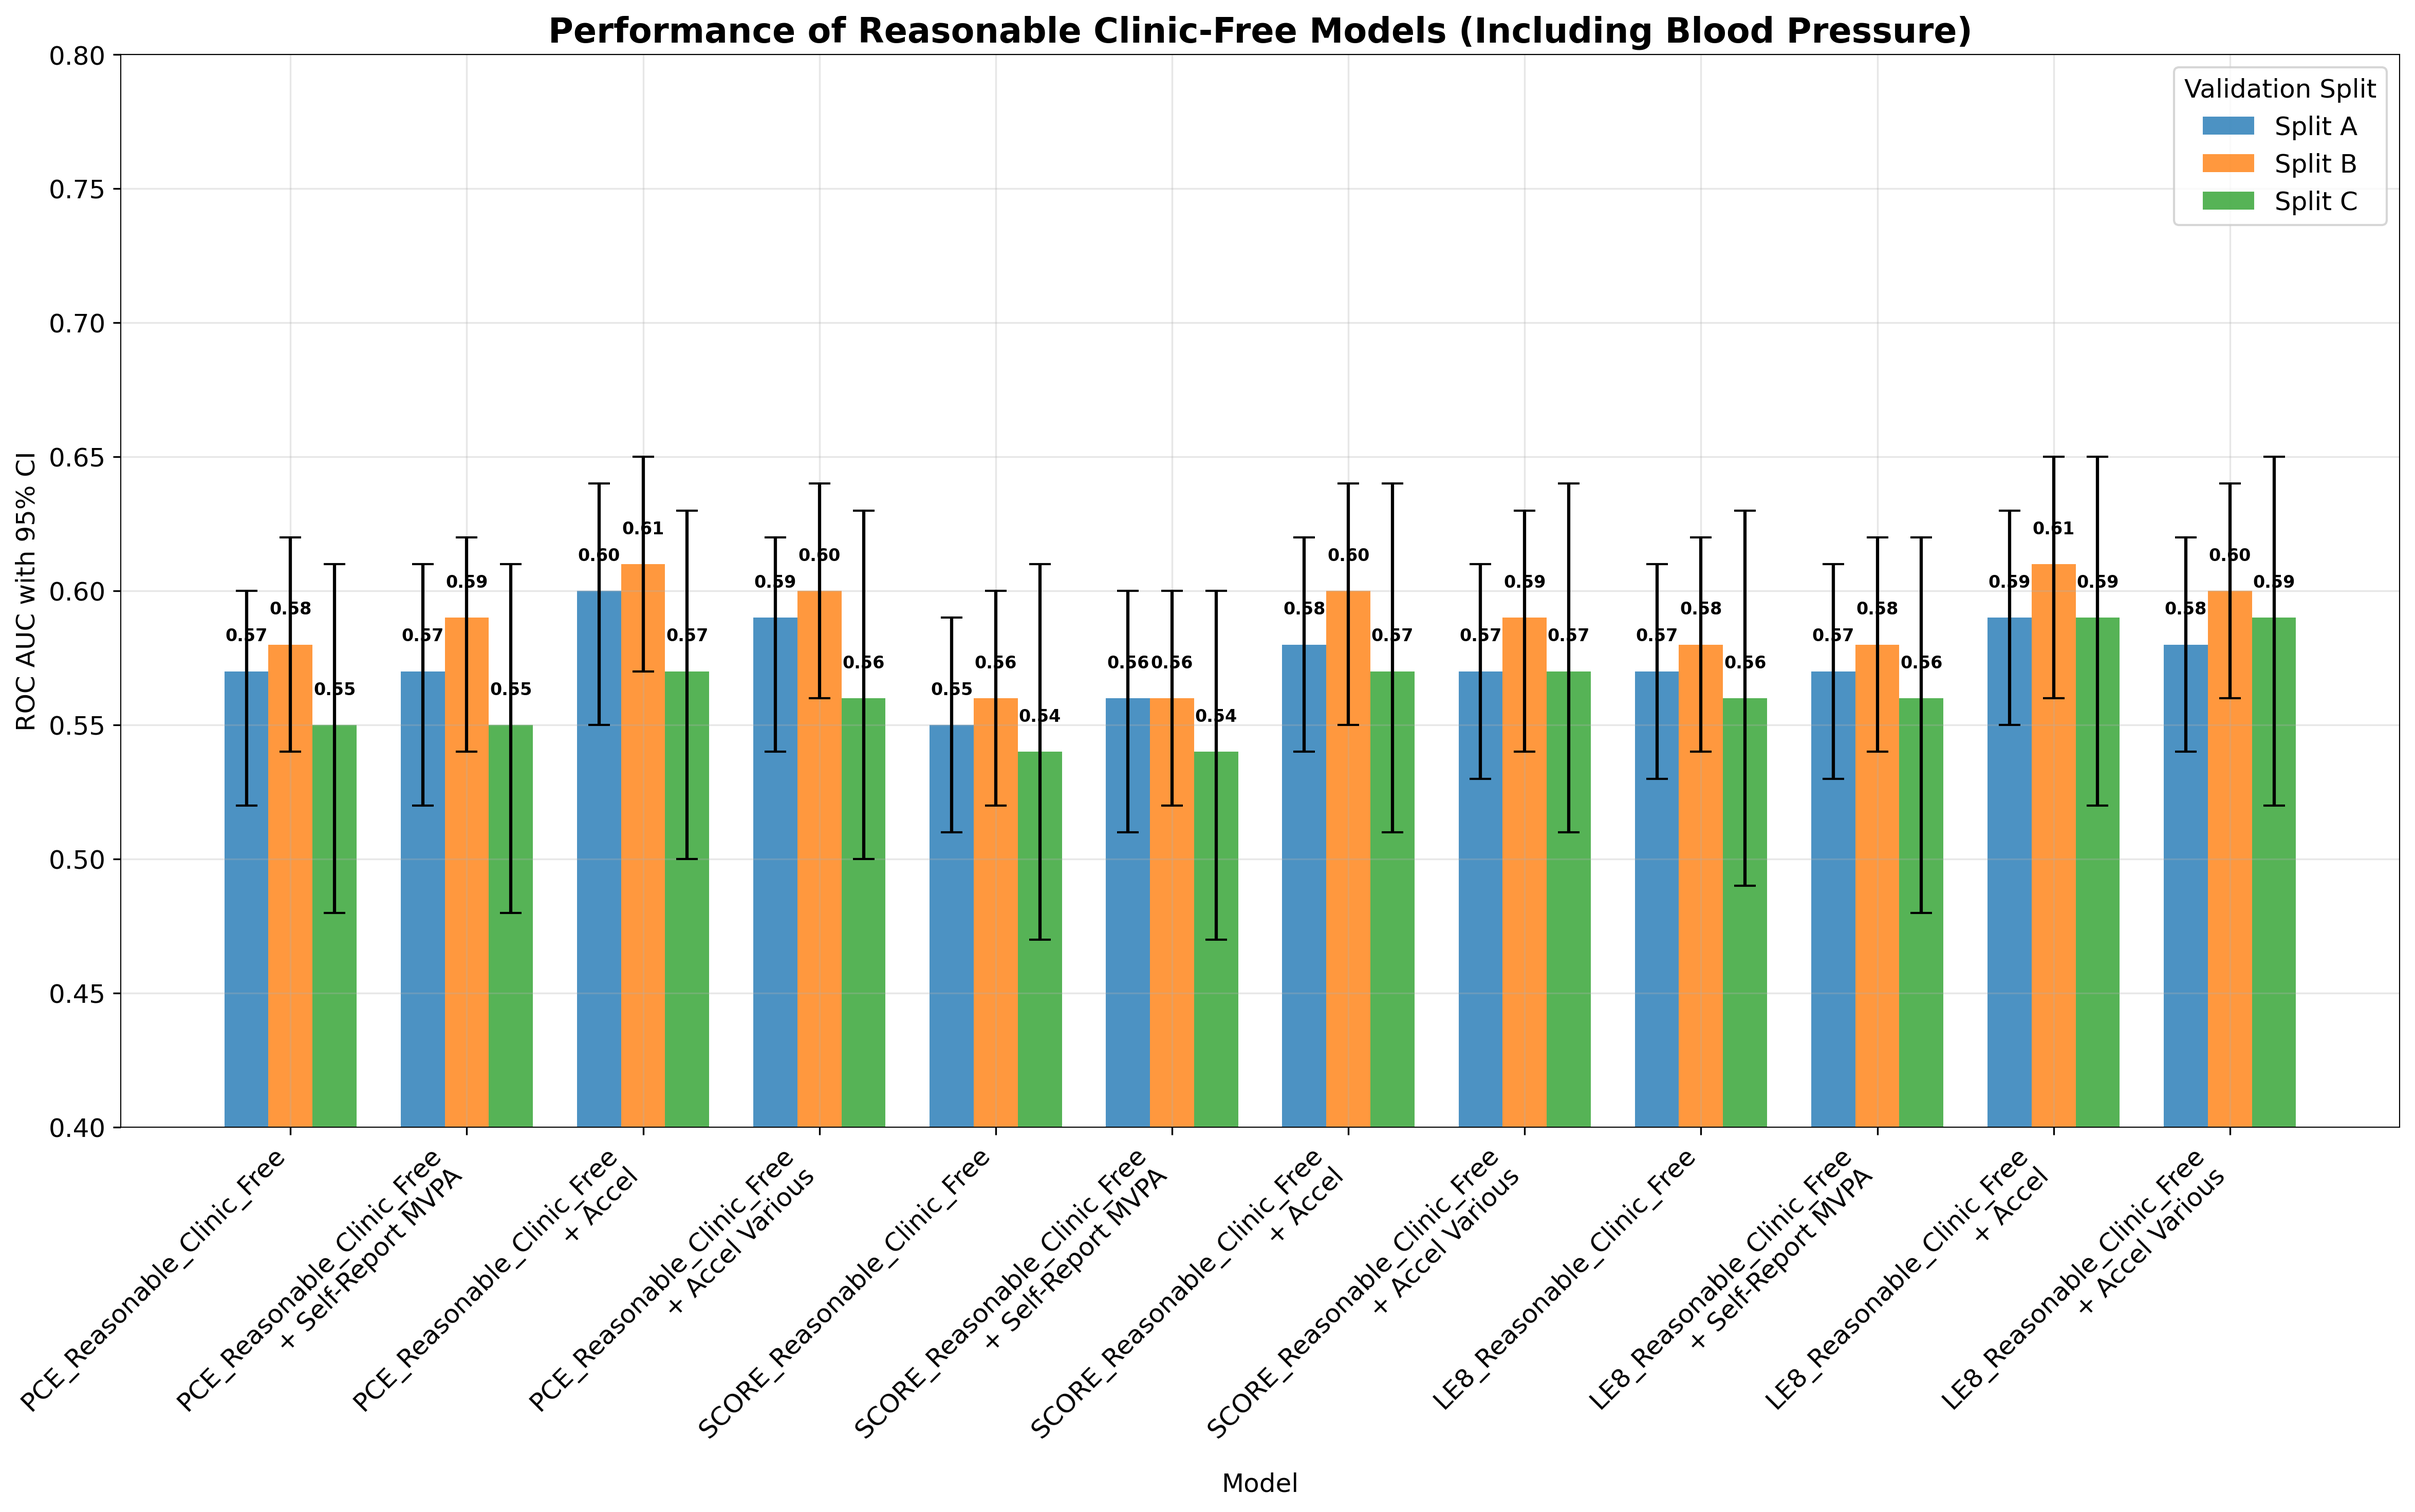
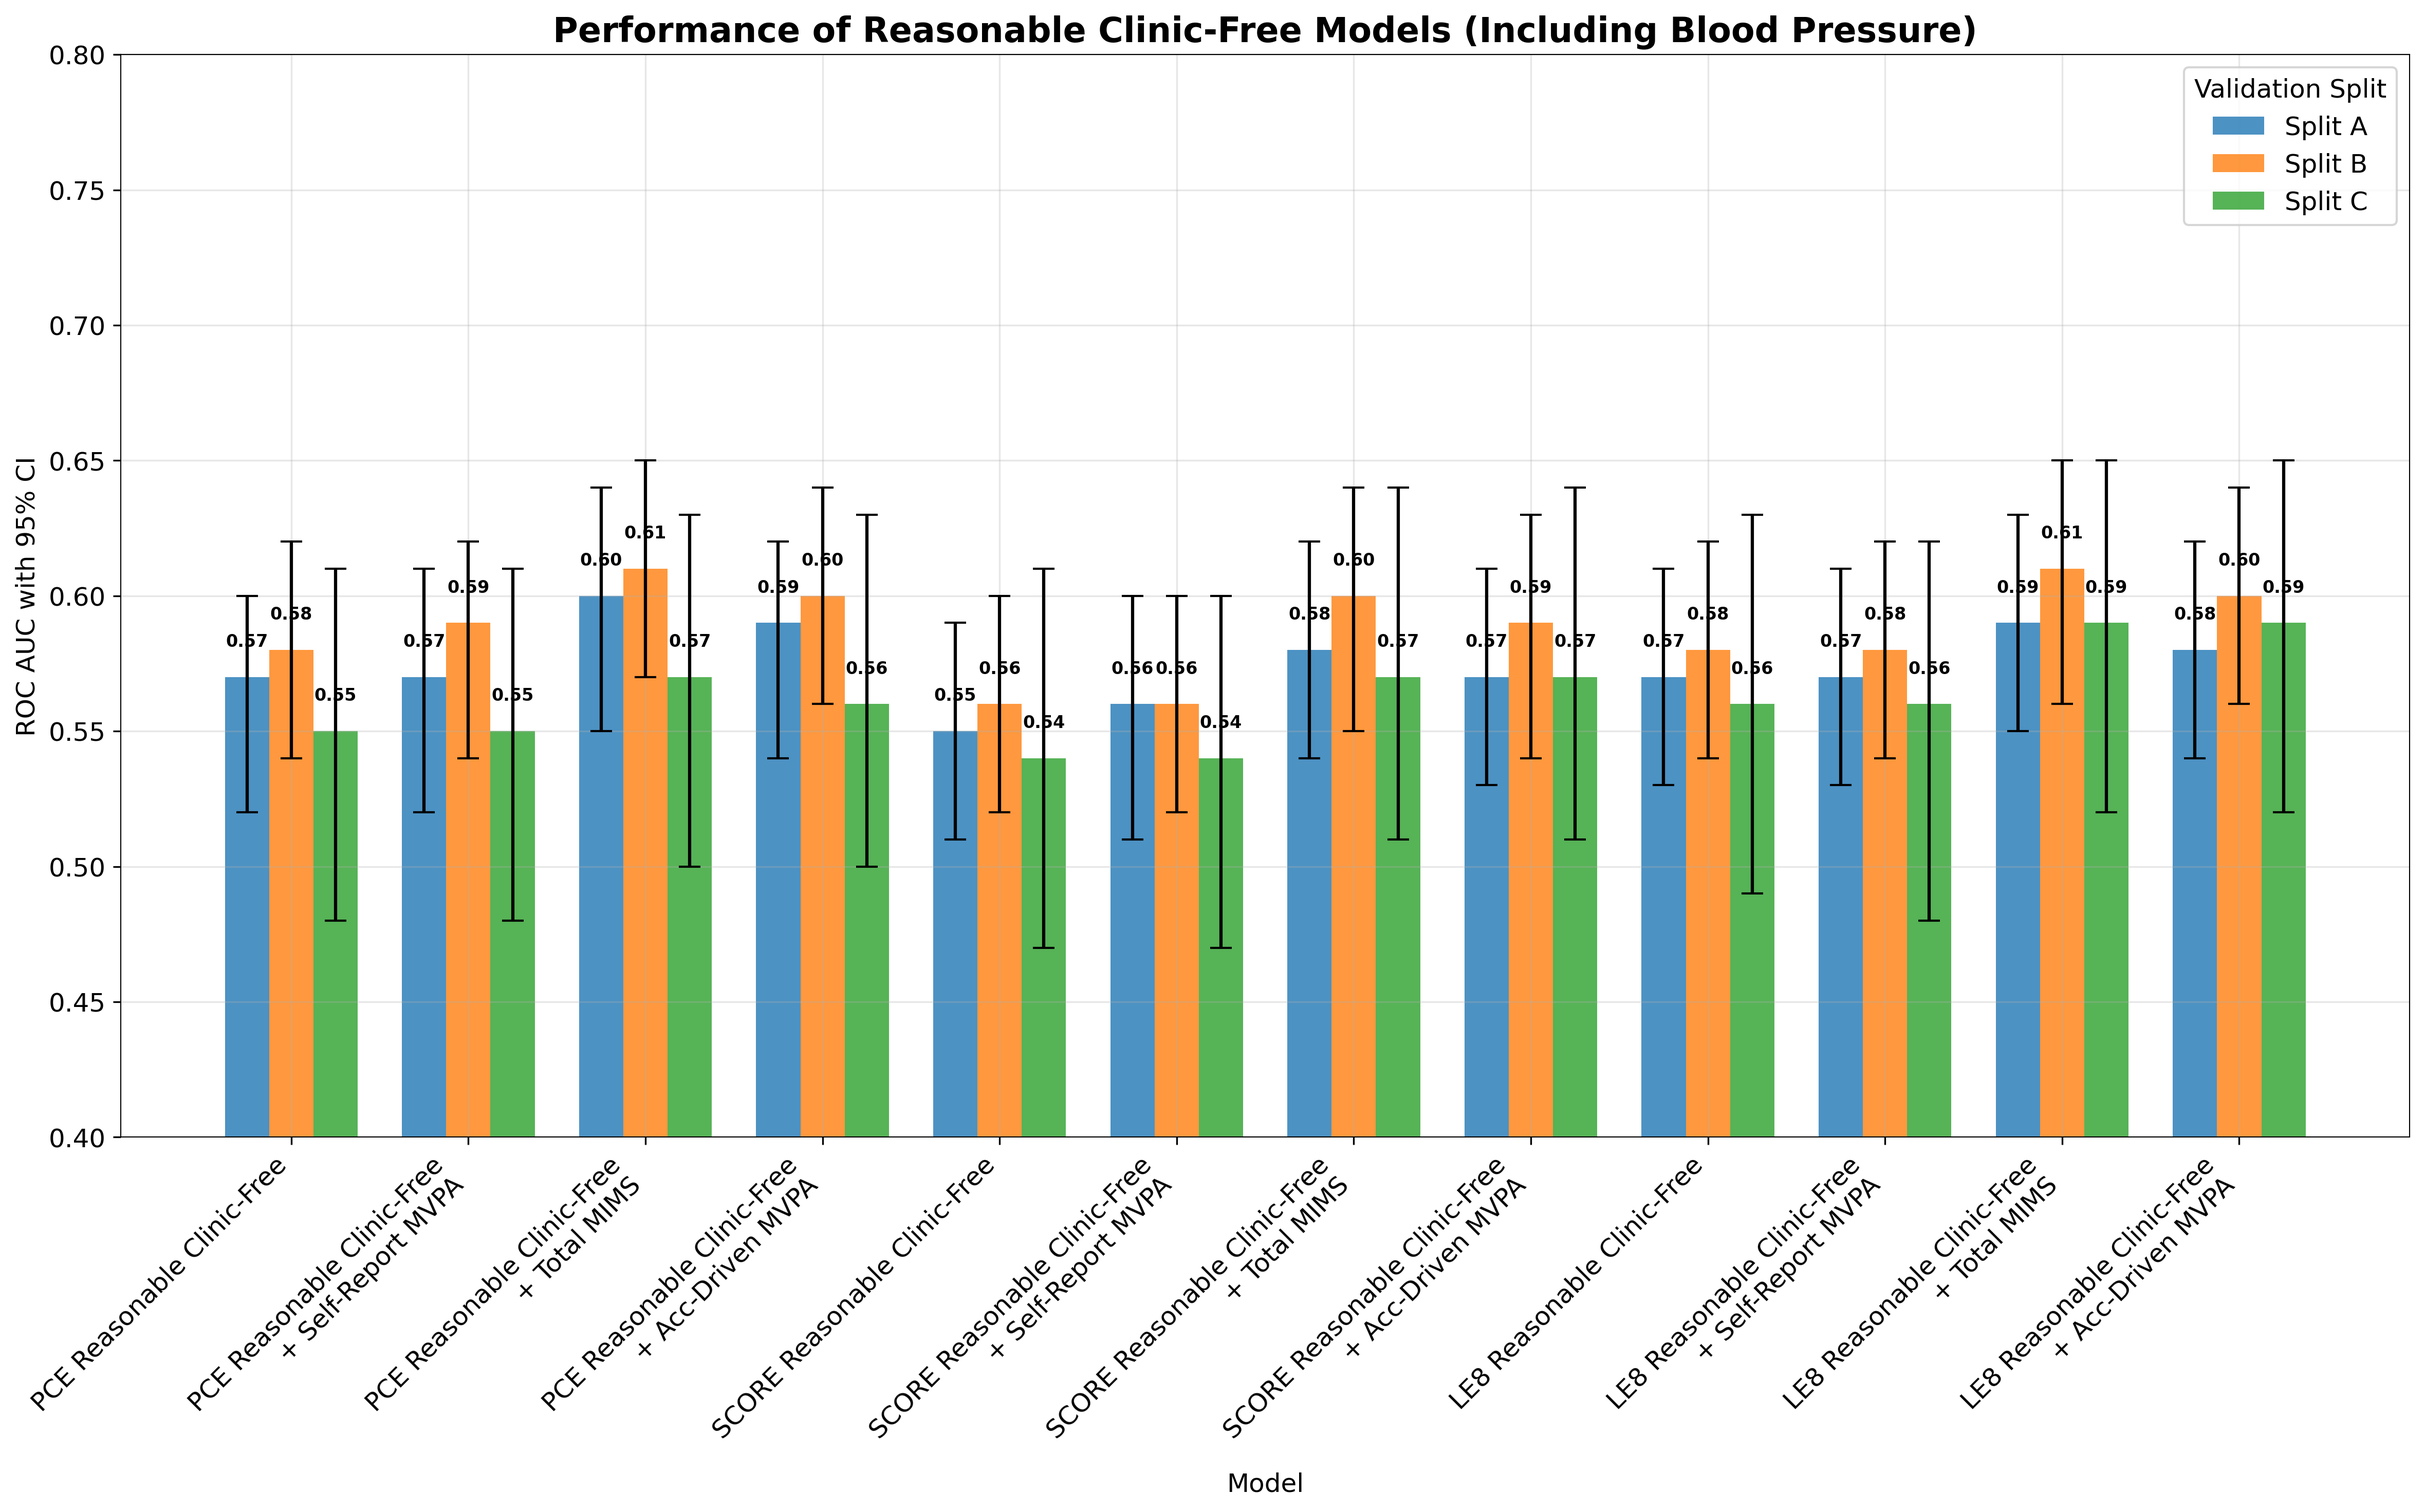
new images

diff --git a/dana_nhanes_project/create_manuscript_figures_updated.py b/dana_nhanes_project/create_manuscript_figures_updated.py
@@ -32,6 +32,31 @@ def parse_ci_string(ci_string):
     else:
         return np.nan, np.nan, np.nan
 
+def transform_model_name(model_name):
+    """Transform model names from old naming convention to new naming convention"""
+    if pd.isna(model_name) or model_name == '':
+        return model_name
+    
+    # Apply transformations in order
+    transformed_name = model_name
+    
+    # Replace model combination names
+    transformed_name = transformed_name.replace('Accel Various', 'Acc-Driven MVPA')
+    transformed_name = transformed_name.replace('Accel', 'Total MIMS')
+    transformed_name = transformed_name.replace('Demographics', 'DEMO')
+    
+    # Replace underscores with spaces for clinic-free models
+    transformed_name = transformed_name.replace('PCE_Clinic_Free', 'PCE Clinic-Free')
+    transformed_name = transformed_name.replace('SCORE_Clinic_Free', 'SCORE Clinic-Free')
+    transformed_name = transformed_name.replace('LE8_Clinic_Free', 'LE8 Clinic-Free')
+    
+    # Replace underscores with spaces for reasonable clinic-free models
+    transformed_name = transformed_name.replace('PCE_Reasonable_Clinic_Free', 'PCE Reasonable Clinic-Free')
+    transformed_name = transformed_name.replace('SCORE_Reasonable_Clinic_Free', 'SCORE Reasonable Clinic-Free')
+    transformed_name = transformed_name.replace('LE8_Reasonable_Clinic_Free', 'LE8 Reasonable Clinic-Free')
+    
+    return transformed_name
+
 def load_real_data():
     """Load and process the actual data files"""
     # Load bootstrap results for all splits
@@ -45,6 +70,9 @@ def load_real_data():
         for _, row in bootstrap_df.iterrows():
             model_name = row.iloc[0]
             auc_str = row['ROC AUC']
+            
+            # Transform model names to match new naming convention
+            model_name = transform_model_name(model_name)
             
             # Parse values and CIs
             auc_val, auc_lower, auc_upper = parse_ci_string(auc_str)
@@ -63,9 +91,9 @@ def create_figure_traditional_risk_models(df):
     """Figure for Impact of Physical Activity Measures on Clinical Risk Models"""
     
     # Filter for traditional risk models
-    traditional_models = ['PCE', 'PCE + Self Reported Physical Activity', 'PCE + Accel', 'PCE + Accel Various',
-                         'SCORE', 'SCORE + Self Reported Physical Activity', 'SCORE + Accel', 'SCORE + Accel Various',
-                         'LE8', 'LE8 + Self Reported Physical Activity', 'LE8 + Accel', 'LE8 + Accel Various']
+    traditional_models = ['PCE', 'PCE + Self Reported Physical Activity', 'PCE + Total MIMS', 'PCE + Acc-Driven MVPA',
+                         'SCORE', 'SCORE + Self Reported Physical Activity', 'SCORE + Total MIMS', 'SCORE + Acc-Driven MVPA',
+                         'LE8', 'LE8 + Self Reported Physical Activity', 'LE8 + Total MIMS', 'LE8 + Acc-Driven MVPA']
     
     # Filter data for these models
     filtered_data = df[df['Model'].isin(traditional_models)].copy()
@@ -128,7 +156,7 @@ def create_figure_traditional_risk_models(df):
     
     ax.set_xlabel('Model')
     ax.set_ylabel('ROC AUC with 95% CI')
-    ax.set_title('Impact of Physical Activity Measures on Clinical Risk Models', 
+    ax.set_title('Performance of Traditional Risk Models', 
                  fontsize=16, fontweight='bold')
     ax.set_xticks(x + width)
     ax.set_xticklabels(display_names, rotation=45, ha='right')
@@ -144,12 +172,12 @@ def create_figure_clinic_free_models(df):
     """Figure for Clinic-Free Models"""
     
     # Filter for clinic-free models
-    clinic_free_models = ['PCE_Clinic_Free', 'PCE_Clinic_Free + Self Reported Physical Activity', 
-                         'PCE_Clinic_Free + Accel', 'PCE_Clinic_Free + Accel Various',
-                         'SCORE_Clinic_Free', 'SCORE_Clinic_Free + Self Reported Physical Activity',
-                         'SCORE_Clinic_Free + Accel', 'SCORE_Clinic_Free + Accel Various',
-                         'LE8_Clinic_Free', 'LE8_Clinic_Free + Self Reported Physical Activity',
-                         'LE8_Clinic_Free + Accel', 'LE8_Clinic_Free + Accel Various']
+    clinic_free_models = ['PCE Clinic-Free', 'PCE Clinic-Free + Self Reported Physical Activity', 
+                         'PCE Clinic-Free + Total MIMS', 'PCE Clinic-Free + Acc-Driven MVPA',
+                         'SCORE Clinic-Free', 'SCORE Clinic-Free + Self Reported Physical Activity',
+                         'SCORE Clinic-Free + Total MIMS', 'SCORE Clinic-Free + Acc-Driven MVPA',
+                         'LE8 Clinic-Free', 'LE8 Clinic-Free + Self Reported Physical Activity',
+                         'LE8 Clinic-Free + Total MIMS', 'LE8 Clinic-Free + Acc-Driven MVPA']
     
     # Filter data for these models
     filtered_data = df[df['Model'].isin(clinic_free_models)].copy()
@@ -228,12 +256,12 @@ def create_figure_reasonable_clinic_free_models(df):
     """Figure for Reasonable Clinic-Free Models (Including Blood Pressure)"""
     
     # Filter for reasonable clinic-free models
-    reasonable_models = ['PCE_Reasonable_Clinic_Free', 'PCE_Reasonable_Clinic_Free + Self Reported Physical Activity',
-                        'PCE_Reasonable_Clinic_Free + Accel', 'PCE_Reasonable_Clinic_Free + Accel Various',
-                        'SCORE_Reasonable_Clinic_Free', 'SCORE_Reasonable_Clinic_Free + Self Reported Physical Activity',
-                        'SCORE_Reasonable_Clinic_Free + Accel', 'SCORE_Reasonable_Clinic_Free + Accel Various',
-                        'LE8_Reasonable_Clinic_Free', 'LE8_Reasonable_Clinic_Free + Self Reported Physical Activity',
-                        'LE8_Reasonable_Clinic_Free + Accel', 'LE8_Reasonable_Clinic_Free + Accel Various']
+    reasonable_models = ['PCE Reasonable Clinic-Free', 'PCE Reasonable Clinic-Free + Self Reported Physical Activity',
+                        'PCE Reasonable Clinic-Free + Total MIMS', 'PCE Reasonable Clinic-Free + Acc-Driven MVPA',
+                        'SCORE Reasonable Clinic-Free', 'SCORE Reasonable Clinic-Free + Self Reported Physical Activity',
+                        'SCORE Reasonable Clinic-Free + Total MIMS', 'SCORE Reasonable Clinic-Free + Acc-Driven MVPA',
+                        'LE8 Reasonable Clinic-Free', 'LE8 Reasonable Clinic-Free + Self Reported Physical Activity',
+                        'LE8 Reasonable Clinic-Free + Total MIMS', 'LE8 Reasonable Clinic-Free + Acc-Driven MVPA']
     
     # Filter data for these models
     filtered_data = df[df['Model'].isin(reasonable_models)].copy()
@@ -312,10 +340,10 @@ def create_figure_sociodemographic_models(df):
     """Figure for Performance with Sociodemographic Variables Only"""
     
     # Filter for sociodemographic models
-    socio_models = ['Demographics', 'Demographics + Self Reported Physical Activity',
-                   'Demographics + Accel', 'Demographics + Accel Various',
+    socio_models = ['DEMO', 'DEMO + Self Reported Physical Activity',
+                   'DEMO + Total MIMS', 'DEMO + Acc-Driven MVPA',
                    'SDOH', 'SDOH + Self Reported Physical Activity',
-                   'SDOH + Accel', 'SDOH + Accel Various']
+                   'SDOH + Total MIMS', 'SDOH + Acc-Driven MVPA']
     
     # Filter data for these models
     filtered_data = df[df['Model'].isin(socio_models)].copy()
@@ -378,7 +406,7 @@ def create_figure_sociodemographic_models(df):
     
     ax.set_xlabel('Model')
     ax.set_ylabel('ROC AUC with 95% CI')
-    ax.set_title('Performance with Sociodemographic Variables Only', 
+    ax.set_title('Performance of Sociodemographic Models', 
                  fontsize=16, fontweight='bold')
     ax.set_xticks(x + width)
     ax.set_xticklabels(display_names, rotation=45, ha='right')
